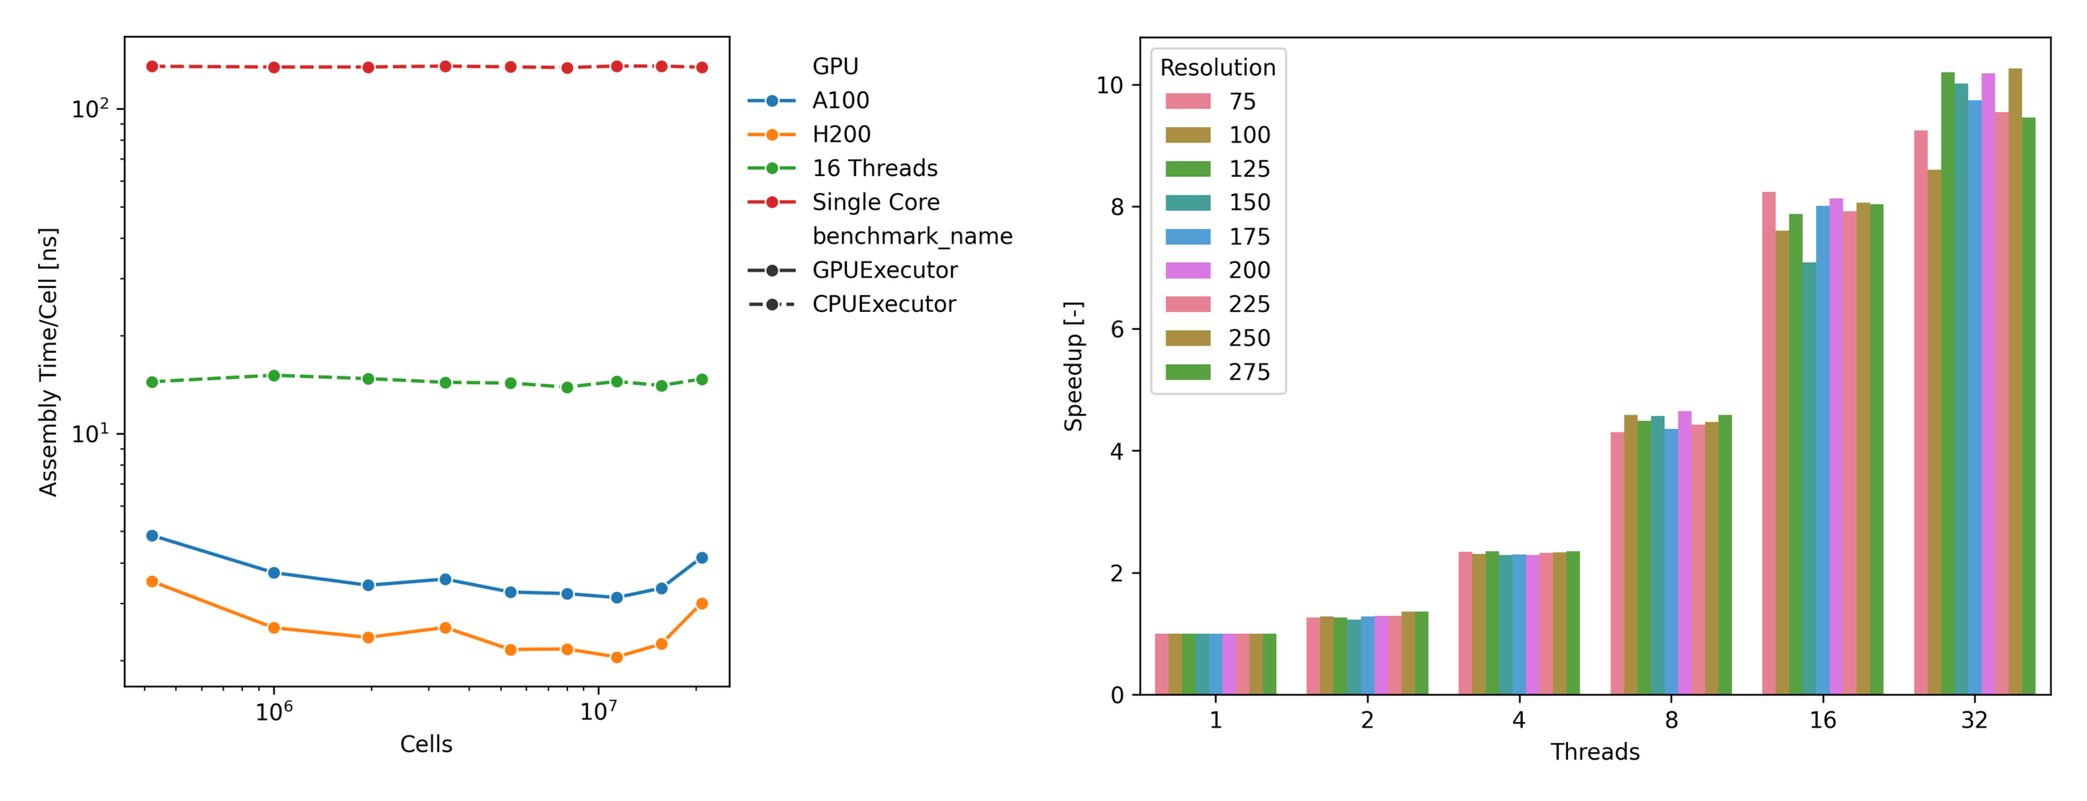
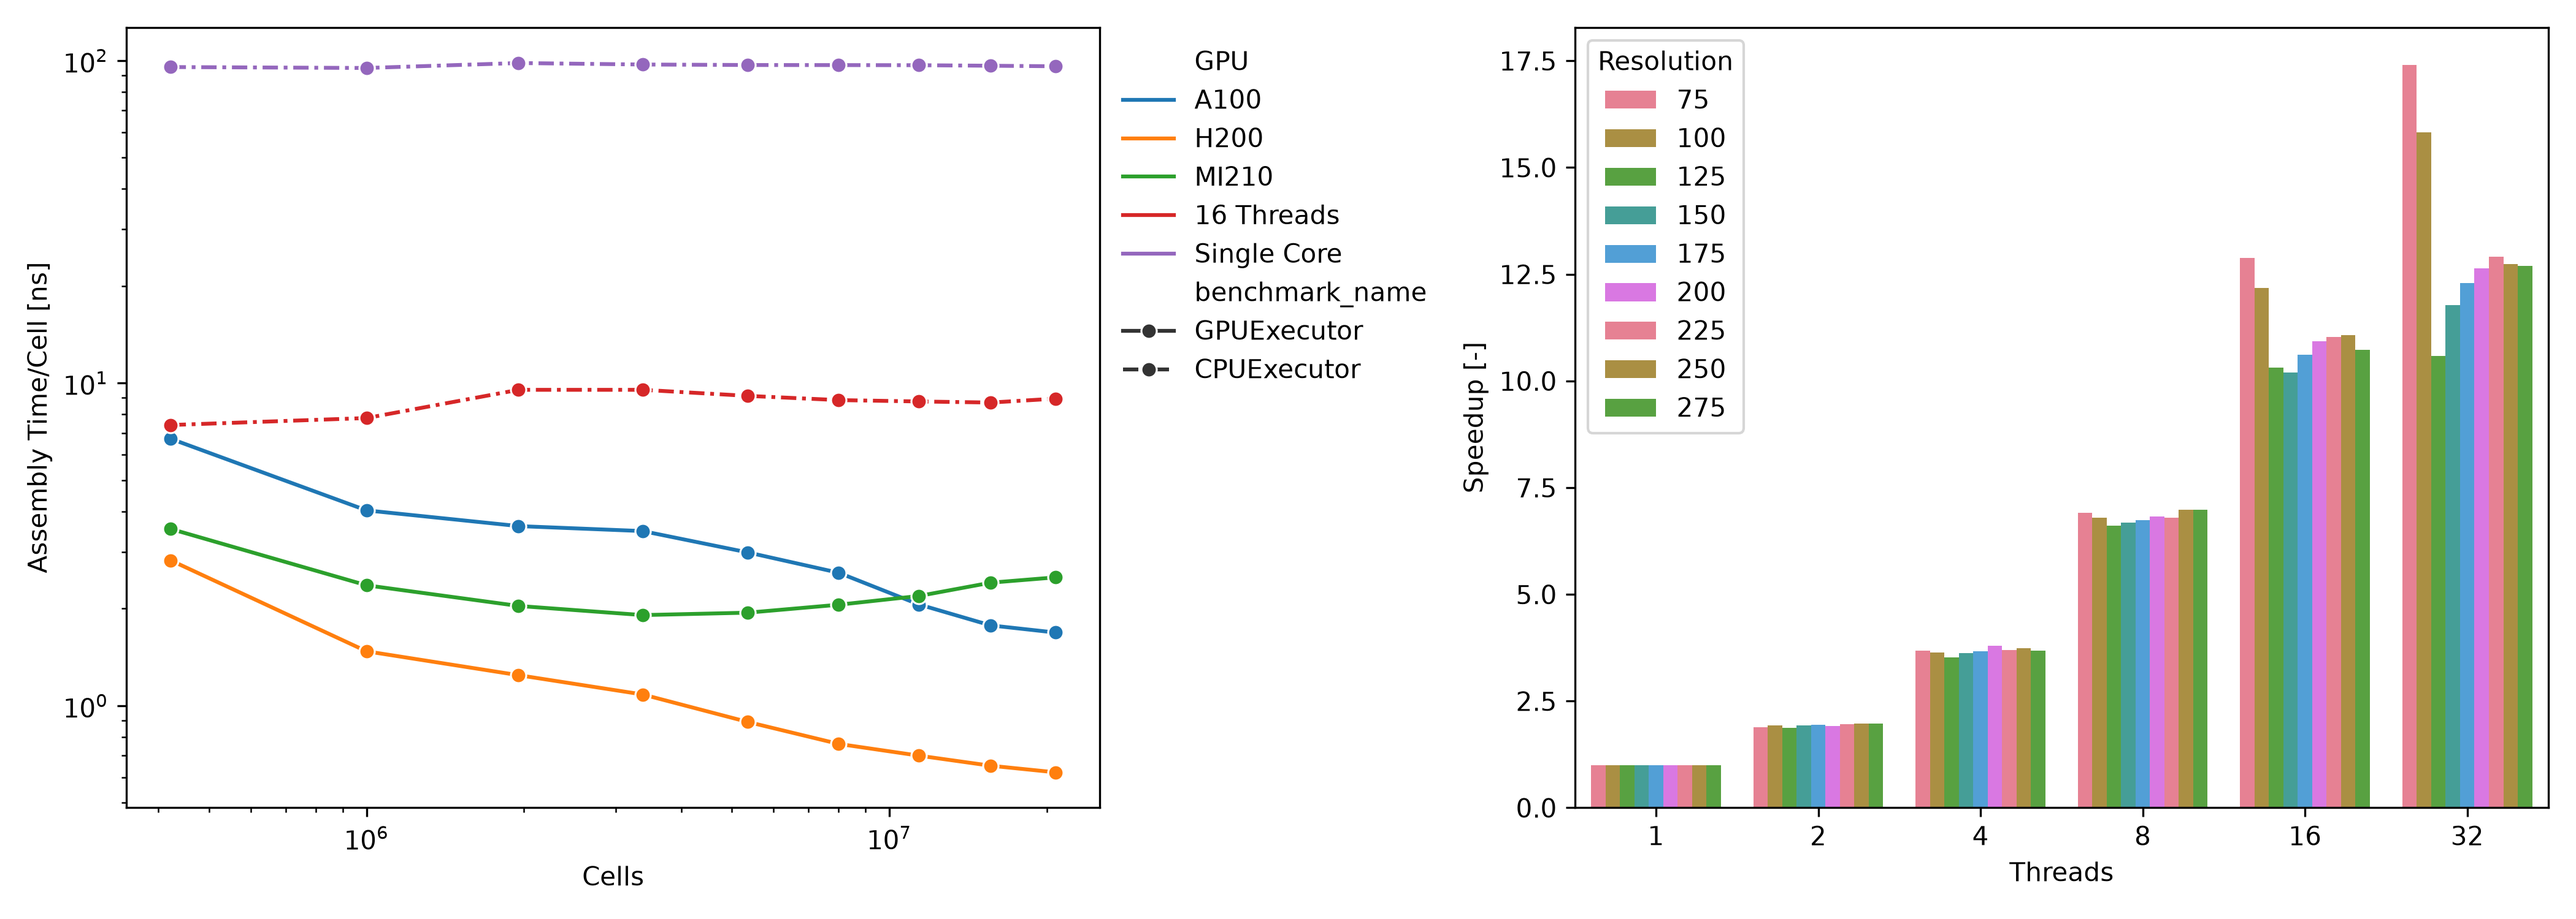
doc(joss): update the performance figure and numbers with the new benchmark data

diff --git a/doc/joss/paper.md b/doc/joss/paper.md
@@ -80,10 +80,10 @@ The discretisation engine then applies selected temporal and spatial schemes to 
 High-level workflow concerns such as time loops, solver control, and I/O are intentionally handled outside the core library by external applications. The `Demonstrator` (e.g. NeoFOAM) illustrates how NeoN can be integrated into OpenFOAM-style workflows. Importantly, NeoN operates independently of OpenFOAM, and its Python bindings facilitate access to the DSL without NeoFOAM.
 
 # Performance Evaluation
-![Computational performance evaluating a simplified momentum transport equation. Left: required assembly time per cell for different grid resolutions on a single core, using 16 threads, and an A100 and H200 NVIDIA GPU. Right: speed-up relative to a single core for different numbers of threads across various grid resolutions.\label{fig:neon-performance}](figures/neon_performance.png){width=100%}
+![Computational performance evaluating a simplified momentum transport equation. Left: required assembly time per cell for different grid resolutions on a single core, using 16 threads, and on NVIDIA A100 and H200 and AMD MI210 GPUs. Right: speed-up relative to a single core for different numbers of threads across various grid resolutions.\label{fig:neon-performance}](figures/neon_performance.png){width=100%}
 
-To evaluate the performance of NeoN, the wall-clock time required for the matrix assembly of the expression defined in Listing 1 is measured across multiple hardware backends and problem sizes. The computational domain consists of a unit cube discretised using a uniform hexahedral mesh with varying resolutions. Benchmarks are conducted on representative high-performance computing hardware, including an AMD EPYC 9555 processor (64 cores) and NVIDIA A100 and H200 GPUs. \autoref{fig:neon-performance}(Left) reports the assembly time per cell for different grid resolutions, comparing single-core CPU execution, multi-core CPU execution (16 threads), and GPU execution on an A100 and H200 device. The results indicate that GPU acceleration yields a reduction in assembly time per cell by approximately a factor of 20 to 50 relative to single-core CPU execution.
-In addition, strong scaling experiments using the OpenMP backend on up to 32 CPU cores are presented in \autoref{fig:neon-performance}(Right). A speedup of approximately 10x is achieved when scaling from one to 32 threads. Beyond this point, no further performance gains are observed, which is attributed to memory bandwidth limitations leading to increased contention among threads.
+To evaluate the performance of NeoN, the wall-clock time required for the matrix assembly of the expression defined in Listing 1 is measured across multiple hardware backends and problem sizes. The computational domain consists of a unit cube discretised using a uniform hexahedral mesh with varying resolutions. Benchmarks are conducted on representative high-performance computing hardware, including an AMD EPYC 9555 processor (64 cores), NVIDIA A100 and H200 GPUs, and an AMD MI210 GPU. \autoref{fig:neon-performance}(Left) reports the assembly time per cell for different grid resolutions, comparing single-core CPU execution, multi-core CPU execution (16 threads), and GPU execution on an A100, H200 and MI210 device. The results indicate that GPU acceleration reduces the assembly time per cell relative to single-core CPU execution by a factor of approximately 15 to 155, depending on the device and grid resolution, with the largest gains on the H200 for the finest grids.
+In addition, strong scaling experiments using the OpenMP backend on up to 32 CPU cores are presented in \autoref{fig:neon-performance}(Right). Up to eight threads, the speedup is close to linear. At 16 and 32 threads, speedups of approximately 11x and 13x are achieved for most resolutions. The diminishing gains beyond 16 threads are attributed to memory bandwidth limitations leading to increased contention among threads.
 
 # Research Impact Statement
 NeoN has documented use in the EXASIM research project [@exasim-report], where it is presented as an approach for GPU-based assembly of finite-volume operators on heterogeneous CPU/GPU systems. This demonstrates its use in active CFD research workflows.
